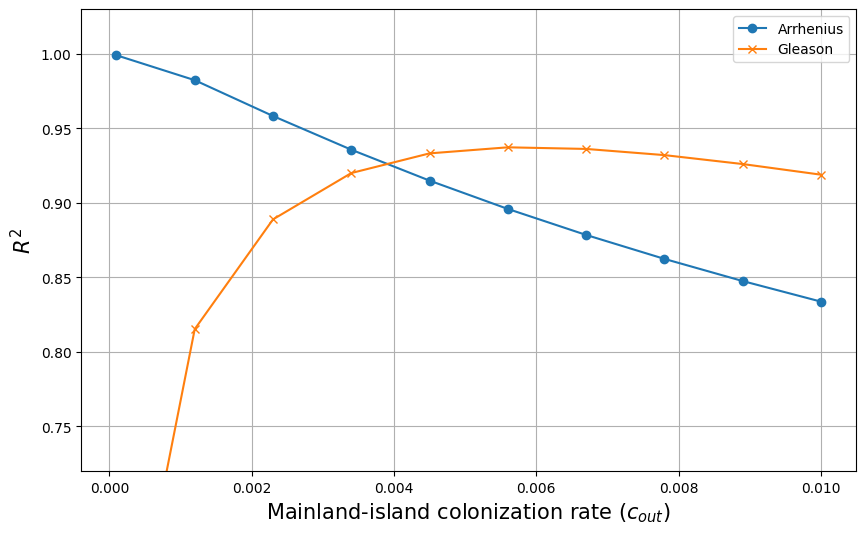
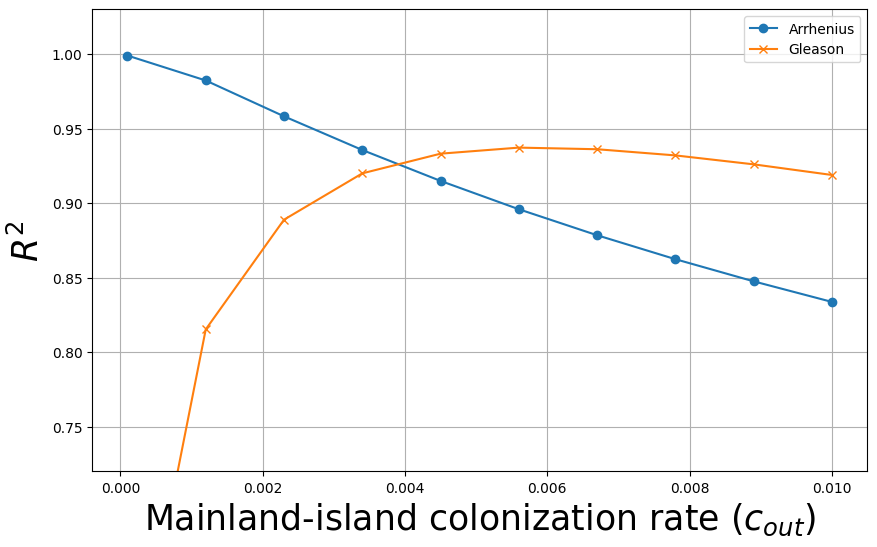
Update

Changed region(s): [[0.0312, 0.0, 0.9977, 0.9888], [0.9353, 0.2097, 0.9977, 0.2697], [0.0, 0.3895, 0.0624, 0.4794]]

diff --git a/Code/Figure5.py b/Code/Figure5.py
@@ -58,8 +58,8 @@ for c_out in c_out_values:
     M_values = M * (1 - np.array([calculate_p0(n, c_in, c_out, e, C_S) for n in n_values]))
     ax.plot(n_values, M_values, label=f'$c_{{out}}={c_out:.7f}$')
 
-ax.set_xlabel('Area (n)', fontsize=15)
-ax.set_ylabel(r'Species richness $(S_\infty)$', fontsize=15)
+ax.set_xlabel('Area (n)', fontsize=25)
+ax.set_ylabel(r'Species richness $(S_\infty)$', fontsize=25)
 ax.set_xscale('log')
 ax.set_yscale('log')
 ax.grid(True)
@@ -89,8 +89,8 @@ for c_out in c_out_values:
 plt.figure(figsize=(10, 6))
 plt.plot(c_out_values, r2_arrhenius_values, marker='o', label='Arrhenius')
 plt.plot(c_out_values, r2_gleason_values, marker='x', label='Gleason')
-plt.xlabel(r'Mainland-island colonization rate ($c_{out}$)', fontsize=15)
-plt.ylabel(r'$R^2$', fontsize=15)
+plt.xlabel(r'Mainland-island colonization rate ($c_{out}$)', fontsize=25)
+plt.ylabel(r'$R^2$', fontsize=25)
 plt.legend()
 plt.grid(True)
 plt.ylim(0.72, 1.03)
@@ -123,8 +123,8 @@ upper_bound = np.array(z_values) + np.array(z_errors)
 lower_bound = np.array(z_values) - np.array(z_errors)
 plt.fill_between(c_out_values, lower_bound, upper_bound, color='skyblue', alpha=0.3, label='99% Confidence Interval')
 
-plt.xlabel(r'Mainland-island colonization rate ($c_{out}$)', fontsize=15)
-plt.ylabel(r'$z$', fontsize=15)
+plt.xlabel(r'Mainland-island colonization rate ($c_{out}$)', fontsize=25)
+plt.ylabel(r'$z$', fontsize=25)
 plt.grid(True)
 plt.legend()
 plt.show()
